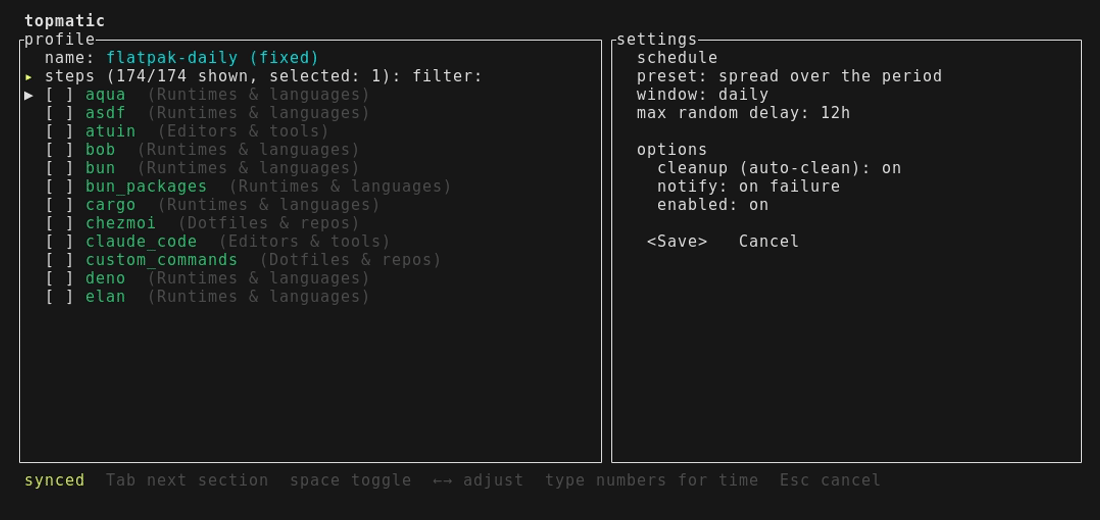
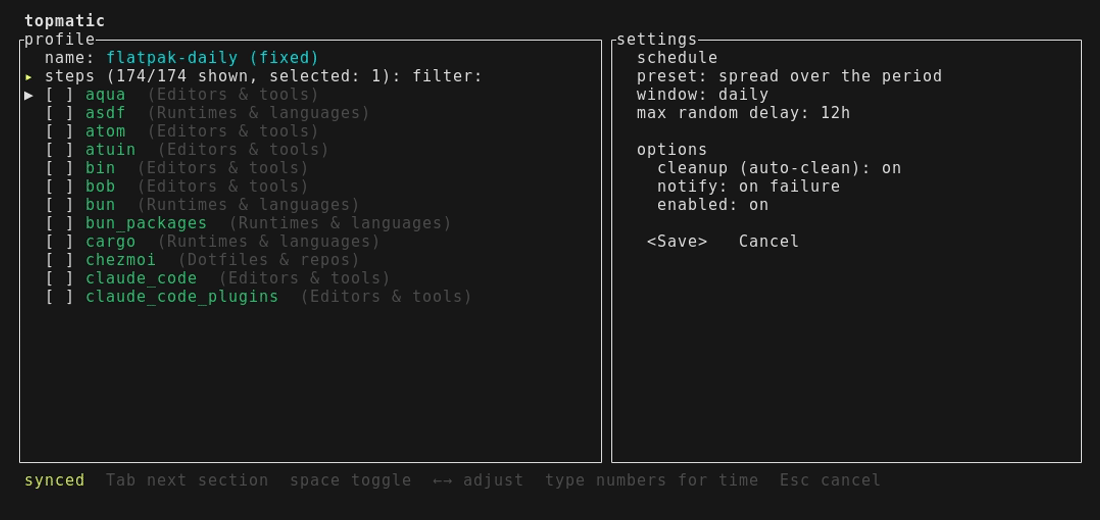
Classify steps into broad pattern-based families covering future topgrade steps

Changed region(s): [[0.0618, 0.2462, 0.4327, 0.5846], [0.2164, 0.1538, 0.3091, 0.2154]]

diff --git a/src/domain/steps.rs b/src/domain/steps.rs
@@ -13,77 +13,163 @@ pub const PRIVILEGED_STEPS: &[&str] = &[
     "restarts",
 ];
 
-pub const CURATED: &[(&str, &[&str])] = &[
-    ("Flatpak", &["flatpak"]),
-    (
-        "Runtimes & languages",
-        &[
-            "cargo",
-            "rustup",
-            "node",
-            "pnpm",
-            "yarn",
-            "bun",
-            "bun_packages",
-            "deno",
-            "go",
-            "gem",
-            "julia",
-            "juliaup",
-            "pyenv",
-            "uv",
-            "pipx",
-            "pipxu",
-            "pip3",
-            "poetry",
-            "stack",
-            "opam",
-            "sdkman",
-            "mise",
-            "asdf",
-            "ghcup",
-            "elan",
-            "zigup",
-            "zvm",
-            "bob",
-            "aqua",
-        ],
-    ),
-    (
-        "Editors & tools",
-        &[
-            "vim",
-            "emacs",
-            "helix",
-            "helix_db",
-            "micro",
-            "kakoune",
-            "vscode",
-            "vscodium",
-            "vscode_insiders",
-            "vscodium_insiders",
-            "tmux",
-            "atuin",
-            "github_cli_extensions",
-            "tldr",
-            "opencode",
-            "claude_code",
-            "jetbrains_toolbox",
-        ],
-    ),
-    (
-        "Dotfiles & repos",
-        &[
-            "chezmoi",
-            "yadm",
-            "rcm",
-            "git_repos",
-            "fossil",
-            "myrepos",
-            "custom_commands",
-        ],
-    ),
+pub const CATEGORY_FLATPAK: &str = "Flatpak";
+pub const CATEGORY_RUNTIMES: &str = "Runtimes & languages";
+pub const CATEGORY_TOOLS: &str = "Editors & tools";
+pub const CATEGORY_REPOS: &str = "Dotfiles & repos";
+
+const RUNTIME_EXACT: &[&str] = &[
+    "cargo",
+    "rustup",
+    "node",
+    "pnpm",
+    "yarn",
+    "deno",
+    "go",
+    "gem",
+    "ruby_gems",
+    "pyenv",
+    "uv",
+    "pipx",
+    "pipxu",
+    "poetry",
+    "conda",
+    "mamba",
+    "pixi",
+    "julia",
+    "juliaup",
+    "stack",
+    "opam",
+    "elan",
+    "sdkman",
+    "mise",
+    "asdf",
+    "zigup",
+    "zvm",
+    "vcpkg",
+    "tlmgr",
+    "raco",
+    "haxelib",
+    "volta_packages",
 ];
+
+const RUNTIME_STEMS: &[&str] = &["pip", "julia", "bun", "rust", "ruby", "zig"];
+
+const TOOLS_EXACT: &[&str] = &[
+    "vim",
+    "emacs",
+    "micro",
+    "kakoune",
+    "atom",
+    "tmux",
+    "atuin",
+    "tldr",
+    "ghcup",
+    "aqua",
+    "bob",
+    "gcloud",
+    "ollama",
+    "opencode",
+    "claude_code",
+    "codex",
+    "spicetify",
+    "getnf",
+    "bin",
+    "shell",
+    "helm",
+    "krew",
+    "github_cli_extensions",
+    "claude_code_plugins",
+];
+
+const TOOLS_STEMS: &[&str] = &[
+    "vscode",
+    "vscodium",
+    "jetbrains",
+    "helix",
+    "cursor",
+    "windsurf",
+];
+
+const REPOS_EXACT: &[&str] = &[
+    "chezmoi",
+    "yadm",
+    "rcm",
+    "fossil",
+    "stew",
+    "custom_commands",
+    "git_repos",
+    "myrepos",
+];
+
+const REPOS_STEMS: &[&str] = &["repo"];
+
+pub const FALLBACK_STEPS: &[&str] = &[
+    "flatpak",
+    "cargo",
+    "rustup",
+    "node",
+    "pnpm",
+    "yarn",
+    "bun",
+    "deno",
+    "go",
+    "uv",
+    "pipx",
+    "pyenv",
+    "poetry",
+    "mise",
+    "vim",
+    "emacs",
+    "helix",
+    "vscode",
+    "vscodium",
+    "tmux",
+    "atuin",
+    "tldr",
+    "opencode",
+    "jetbrains_toolbox",
+    "chezmoi",
+    "yadm",
+    "git_repos",
+    "custom_commands",
+];
+
+fn matches_token(step: &str, token: &str) -> bool {
+    if step == token {
+        return true;
+    }
+    let Some(rest) = step.strip_prefix(token) else {
+        return false;
+    };
+    rest.starts_with('_') || rest.chars().all(|c| c.is_ascii_digit())
+}
+
+fn matches_any(step: &str, exact: &[&str], stems: &[&str], stem_contains: bool) -> bool {
+    if exact.contains(&step) {
+        return true;
+    }
+    if stem_contains {
+        return stems.iter().any(|token| step.contains(token));
+    }
+    stems.iter().any(|token| matches_token(step, token))
+}
+
+pub fn curated_category(step: &str) -> Option<&'static str> {
+    if step == "flatpak" {
+        return Some(CATEGORY_FLATPAK);
+    }
+    if matches_any(step, REPOS_EXACT, REPOS_STEMS, true) {
+        return Some(CATEGORY_REPOS);
+    }
+    if matches_any(step, RUNTIME_EXACT, RUNTIME_STEMS, false) {
+        return Some(CATEGORY_RUNTIMES);
+    }
+    if matches_any(step, TOOLS_EXACT, TOOLS_STEMS, false) {
+        return Some(CATEGORY_TOOLS);
+    }
+    None
+}
 
 #[derive(Debug, Clone)]
 pub struct StepEntry {
@@ -132,13 +218,6 @@ pub fn catalog(help_text: &str) -> Vec<StepEntry> {
             id,
         })
         .collect()
-}
-
-pub fn curated_category(step: &str) -> Option<&'static str> {
-    CURATED
-        .iter()
-        .find(|(_, ids)| ids.contains(&step))
-        .map(|(category, _)| *category)
 }
 
 pub fn is_privileged(step: &str) -> bool {
@@ -196,6 +275,59 @@ mod tests {
         assert_eq!(cargo.category, Some("Runtimes & languages"));
         let unknown = entries.iter().find(|e| e.id == "winget").unwrap();
         assert_eq!(unknown.category, None);
+    }
+
+    #[test]
+    fn classification_is_pattern_based_for_future_steps() {
+        let cases = [
+            ("flatpak", Some("Flatpak")),
+            ("pipxu", Some("Runtimes & languages")),
+            ("pip3", Some("Runtimes & languages")),
+            ("pip_review_local", Some("Runtimes & languages")),
+            ("juliaup", Some("Runtimes & languages")),
+            ("ruby_gems", Some("Runtimes & languages")),
+            ("pip_something_new", Some("Runtimes & languages")),
+            ("rust_future", Some("Runtimes & languages")),
+            ("jetbrains_idea", Some("Editors & tools")),
+            ("jetbrains_next_ide", Some("Editors & tools")),
+            ("vscode_insiders", Some("Editors & tools")),
+            ("helix_db", Some("Editors & tools")),
+            ("cursor_agent", Some("Editors & tools")),
+            ("ghcup", Some("Editors & tools")),
+            ("gcloud", Some("Editors & tools")),
+            ("atuin", Some("Editors & tools")),
+            ("git_repos", Some("Dotfiles & repos")),
+            ("myrepos", Some("Dotfiles & repos")),
+            ("chezmoi", Some("Dotfiles & repos")),
+            ("something_repos_new", Some("Dotfiles & repos")),
+            ("winget", None),
+            ("gearlever", None),
+        ];
+        for (step, expected) in cases {
+            assert_eq!(curated_category(step), expected, "step {step}");
+        }
+    }
+
+    #[test]
+    fn every_current_user_level_step_falls_into_a_family_or_none() {
+        let entries = catalog(HELP);
+        let bucketed = entries.iter().filter(|e| e.category.is_some()).count();
+        assert!(bucketed > 80, "expected broad coverage, got {bucketed}");
+        let privileged = entries.iter().filter(|e| is_privileged(&e.id)).count();
+        assert!(privileged > 0);
+        for entry in entries.iter().filter(|e| is_privileged(&e.id)) {
+            assert_eq!(entry.category, None, "{} must not be curated", entry.id);
+        }
+    }
+
+    #[test]
+    fn fallback_steps_all_classify() {
+        for step in FALLBACK_STEPS {
+            assert!(
+                curated_category(step).is_some(),
+                "fallback step {step} lost its category"
+            );
+        }
     }
 
     #[test]

diff --git a/src/tui/mod.rs b/src/tui/mod.rs
@@ -20,7 +20,7 @@ use ratatui::widgets::{Block, Clear, Paragraph};
 
 use crate::config::{self, AppConfig};
 use crate::domain::profile::NotifyPolicy;
-use crate::domain::steps::{CURATED, StepEntry};
+use crate::domain::steps::{FALLBACK_STEPS, StepEntry, curated_category};
 use crate::paths::Paths;
 use crate::runner::{self, RunOutcome, notify::NullNotify, read_status};
 use crate::systemd::{RealSystemdCtl, SystemdCtl, sync as systemd_sync};
@@ -164,13 +164,11 @@ impl App {
             let text = String::from_utf8_lossy(&output.stdout);
             return crate::domain::steps::catalog(&text);
         }
-        CURATED
+        FALLBACK_STEPS
             .iter()
-            .flat_map(|(category, ids)| {
-                ids.iter().map(|id| StepEntry {
-                    id: id.to_string(),
-                    category: Some(category),
-                })
+            .map(|id| StepEntry {
+                id: id.to_string(),
+                category: curated_category(id),
             })
             .collect()
     }
